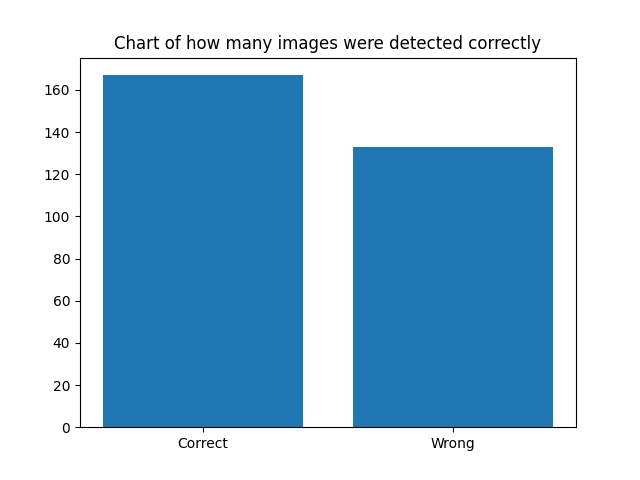
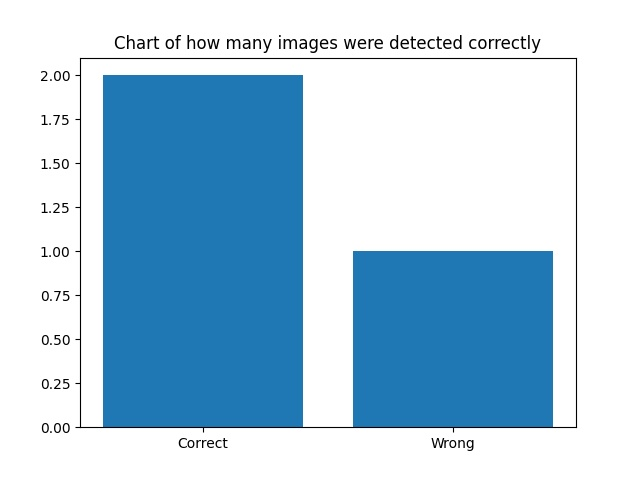
Retested parameters so accuracy = 66.3%
By testing variance_mutiplers, fake_thresholds and confidence levels and finding the global 'maxmima' of the parameters

diff --git a/detect_resampling.py b/detect_resampling.py
@@ -10,18 +10,23 @@ from sklearn.metrics import confusion_matrix, ConfusionMatrixDisplay
 
 start_time = time.time()
 
-def fake_image_detection(show_point_plot, show_scatter, fake_threshold, show_truth_table):
+def fake_image_detection(show_point_plot, show_scatter, fake_threshold, show_truth_table, produce_half_sample):
     # how many images to process
     casia_folder_path = r"C:\Users\chamo\Documents\Physics\Projects\Imaging and Data Processing\Automatic Fake Image Detection"
 
+
     num_of_images = 300
-    casia_2_real = glob.glob(casia_folder_path+'\CASIA2\Au\Au*')[0:int(np.round(num_of_images/2))]
-    casia_2_fake = glob.glob(casia_folder_path+'\CASIA2\Tp\Tp*')[0:int(np.round(num_of_images/2))]
-    casia_2_real_crop = glob.glob(casia_folder_path+'\CASIA2_RandomCrop\Au\Au*')[0:int(np.round(num_of_images/2))]
+    casia_2_real = glob.glob(casia_folder_path+'\CASIA2\Au\Au*')
+    casia_2_fake = glob.glob(casia_folder_path+'\CASIA2\Tp\Tp*')
+    casia_2_real_crop = glob.glob(casia_folder_path+'\CASIA2_RandomCrop\Au\Au*')
     # add in 2000 redited images?
     
-    casia_2 = np.append(casia_2_real, casia_2_fake)
-    casia_2 = np.append(casia_2_real, casia_2_real_crop)
+    if produce_half_sample == True:
+        #casia_2 = np.append(casia_2_real[0:int(np.round(num_of_images/2))], casia_2_real_crop[0:int(np.round(num_of_images/2))])
+        casia_2 = np.append(casia_2_real[0:int(np.round(num_of_images/2))], casia_2_fake[0:int(np.round(num_of_images/2))])
+
+    if produce_half_sample == False:
+        casia_2 = np.append(casia_2_real, casia_2_real_crop)
 
     total_results = np.array([])
     fake_image_labels = np.array([])
@@ -29,12 +34,16 @@ def fake_image_detection(show_point_plot, show_scatter, fake_threshold, show_tru
 
     good_images = np.array([])
     bad_images = np.array([])
+
     for i in range(num_of_images):
-        # get a radnom real or fake image
-        #random_i = np.random.randint(0, np.size(casia_2))
-        
         # go through all images 1 by 1
-        random_i = i
+        if produce_half_sample == True:
+            random_i = i
+        
+        # get a random real or fake image
+        if produce_half_sample == False:
+            random_i = np.random.randint(0, np.size(casia_2))
+
         temp_image = casia_2[random_i]
 
         # fake_threshold of 0.15 was too low to detect real images (accuracy = 40% for just real images)
@@ -100,7 +109,7 @@ def fake_image_detection(show_point_plot, show_scatter, fake_threshold, show_tru
 
         # detect_resampling returns 1 if fake
         # fake_image_labels returns 1 if fake
-
+        # normalize='true'
         truth = confusion_matrix(fake_image_labels, fakeness_end_result_total , labels=labels, normalize='true')
         truth_table = ConfusionMatrixDisplay(confusion_matrix=truth, display_labels=labels)
         
@@ -128,20 +137,33 @@ def fake_image_detection(show_point_plot, show_scatter, fake_threshold, show_tru
 # with threshold 0.1, the results are very 'pure'
 # most/half of fake images that the program detects is correct but it misses 75% of fake images in sample
 
+# parameter testing
 # confidence = 0.5, fake_threshold = 0.1, variance_mutiplier = 3 works - accurary = 55% on average (pure sample)
 # confidence = 0.5, fake_threshold = 0.1, variance_mutiplier = 3.5 works - accurary = 55.6% on average
 # confidence = 0.4, fake_threshold = 0.01, variance_mutiplier = 2 doesn't work - accuracy = 48.7%
 
-# we want a pure sample, not so worried about completeness
-# some
+# confidence = 0.5, fake_threshold = 0.1, variance_mutiplier = 3.5, const_variance = -300 works - accurary = 48% on average
+# confidence = 0.5, fake_threshold = 0.2, variance_mutiplier = 3.5, const_variance = -500 works - accurary = 59.6% on average
+# confidence = 0.5, fake_threshold = 0.2, variance_mutiplier = 4, const_variance = -450 works - accurary = 59.6% on average
+# confidence = 0.5, fake_threshold = 0.175, variance_mutiplier = 3.5, const_variance = -450 works - accurary = 59.6% on average
+# confidence = 0.5, fake_threshold = 0.2, variance_mutiplier = 3.5, const_variance = -475 works - accurary = 64% on average
+# confidence = 0.5, fake_threshold = 0.2, variance_mutiplier = 3.5, const_variance = -485 works - accurary = 65% on average
+# confidence = 0.5, fake_threshold = 0.2, variance_mutiplier = 3.5, const_variance = -490 works - accurary = 65.7% on average
+# confidence = 0.5, fake_threshold = 0.2, variance_mutiplier = 3.5, const_variance = -495 works - accurary = 66.3% on average
+# confidence = 0.5, fake_threshold = 0.2, variance_mutiplier = 3.5, const_variance = -500 works - accurary = 66.3% on average
 
-fake_image_detection(show_point_plot=True, show_scatter=True, fake_threshold=0.1, show_truth_table=True)
+# const_variance = -495 is the global maximum
+# variance_mutiplier = 3.5 is the global maximum
+# fake_threshold = 0.2 is the global maximum
+# confidence = 0.5 is the global maximum
+
+fake_image_detection(show_point_plot=False, show_scatter=False, fake_threshold=0.2, show_truth_table=False, produce_half_sample=True)
 
 #detect_resampling(suspect_image=casia_2_fake[10], show_images=True, debugging=False)
 
 # measure time taken to execute code (uni interpreter is usually faster than uni_2_1)
 end_time = time.time()
 time_taken = end_time - start_time
-print('Time taken =', str(time_taken) + 'secs')
+print('Time taken = {time_taken:.2f} secs'.format(time_taken=time_taken))
 
 # resolution of all images = 256x384 (most images are this size)

diff --git a/resampling.py b/resampling.py
@@ -7,7 +7,8 @@ from loading_data import load_image
 
 from scipy import ndimage 
 
-start_time = time.time()
+#start_time = time.time()
+
 def detect_resampling(suspect_image ,show_images, debugging, fake_threshold):
 
     def get_variance_v2(orginal_image, width, height, test_variance, fake_threshold):
@@ -31,7 +32,7 @@ def detect_resampling(suspect_image ,show_images, debugging, fake_threshold):
         
         # need magnitude of variance because it can be -ve for some edge case images (don't know why)
         # happened with CASIA2\Tp\Tp_D_CNN_M_B_nat10139_nat00059_11949.jpg
-        total_var = np.sqrt(np.abs(np.sum(var_array) / (width * height) - 300)) 
+        total_var = np.sqrt(np.abs(np.sum(var_array) / (width * height) - 495)) 
         
         #image_variance = np.sqrt(np.sum(total_variance / (width * height)) - 300)
         image_variance = total_var
@@ -123,7 +124,6 @@ def detect_resampling(suspect_image ,show_images, debugging, fake_threshold):
         fig.savefig(r'figures\test image resampling.jpeg')
         plt.show()
 
-    #confidence = 0.25
     confidence = 0.5
     if fakeness > confidence:
         fakeness_end_result = True # image is fake
@@ -133,9 +133,10 @@ def detect_resampling(suspect_image ,show_images, debugging, fake_threshold):
     
     return fakeness_end_result
 
-#detect_resampling(suspect_image='fake moose', show_images=True, debugging=True, fake_threshold=0.2)
+#detect_resampling(suspect_image='real zebra', show_images=True, debugging=True, fake_threshold=0.2)
 
 # measure time taken to execute code (uni interpreter is usually faster than uni_2_1)
-end_time = time.time()
-time_taken = end_time - start_time
+
+#end_time = time.time()
+#time_taken = end_time - start_time
 #print('Time taken =', str(time_taken) + 'secs')
